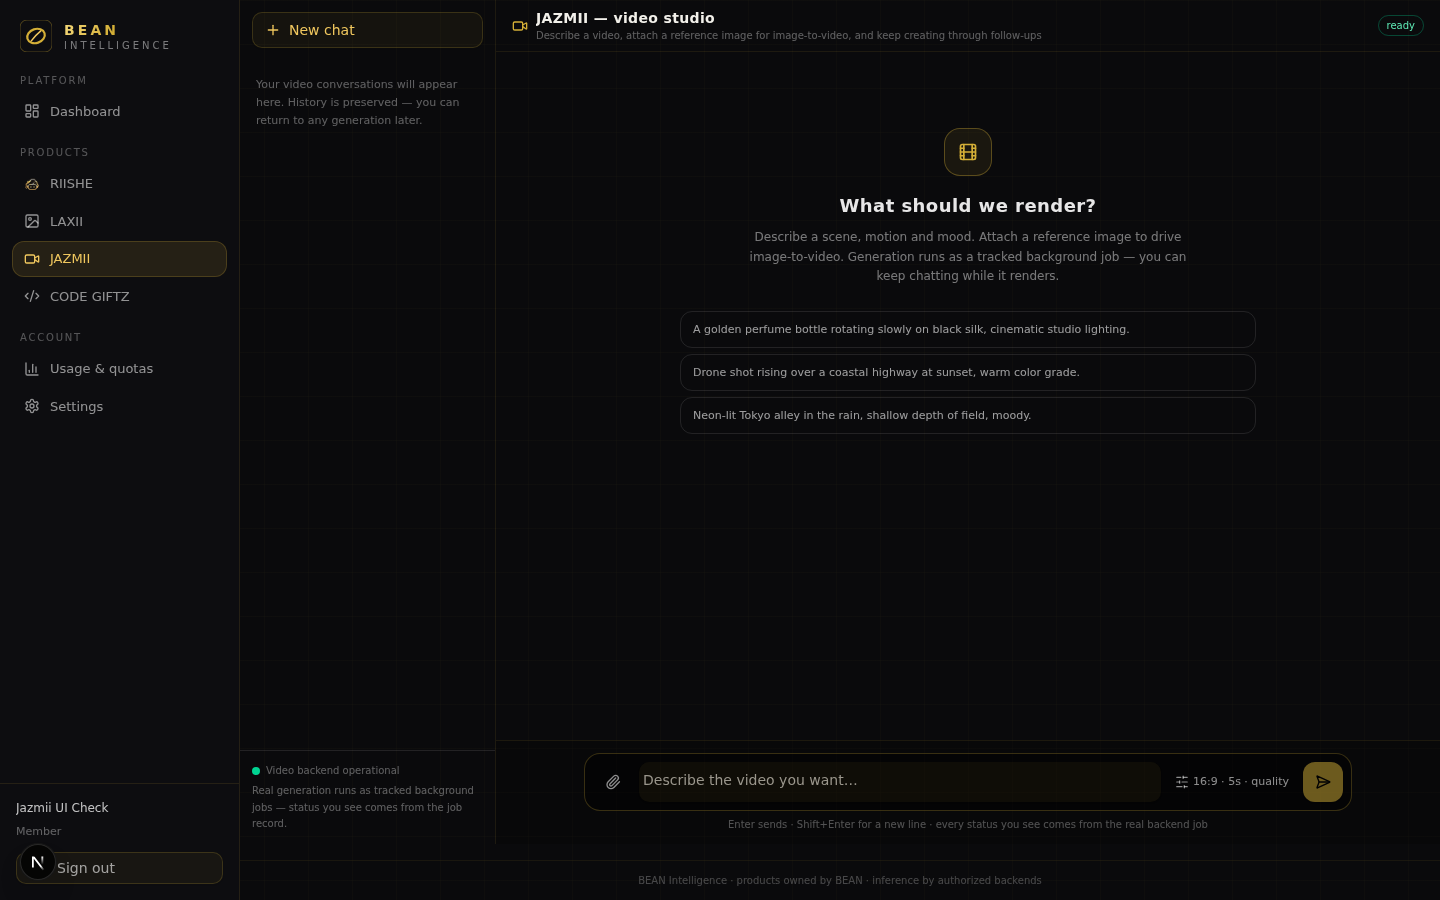
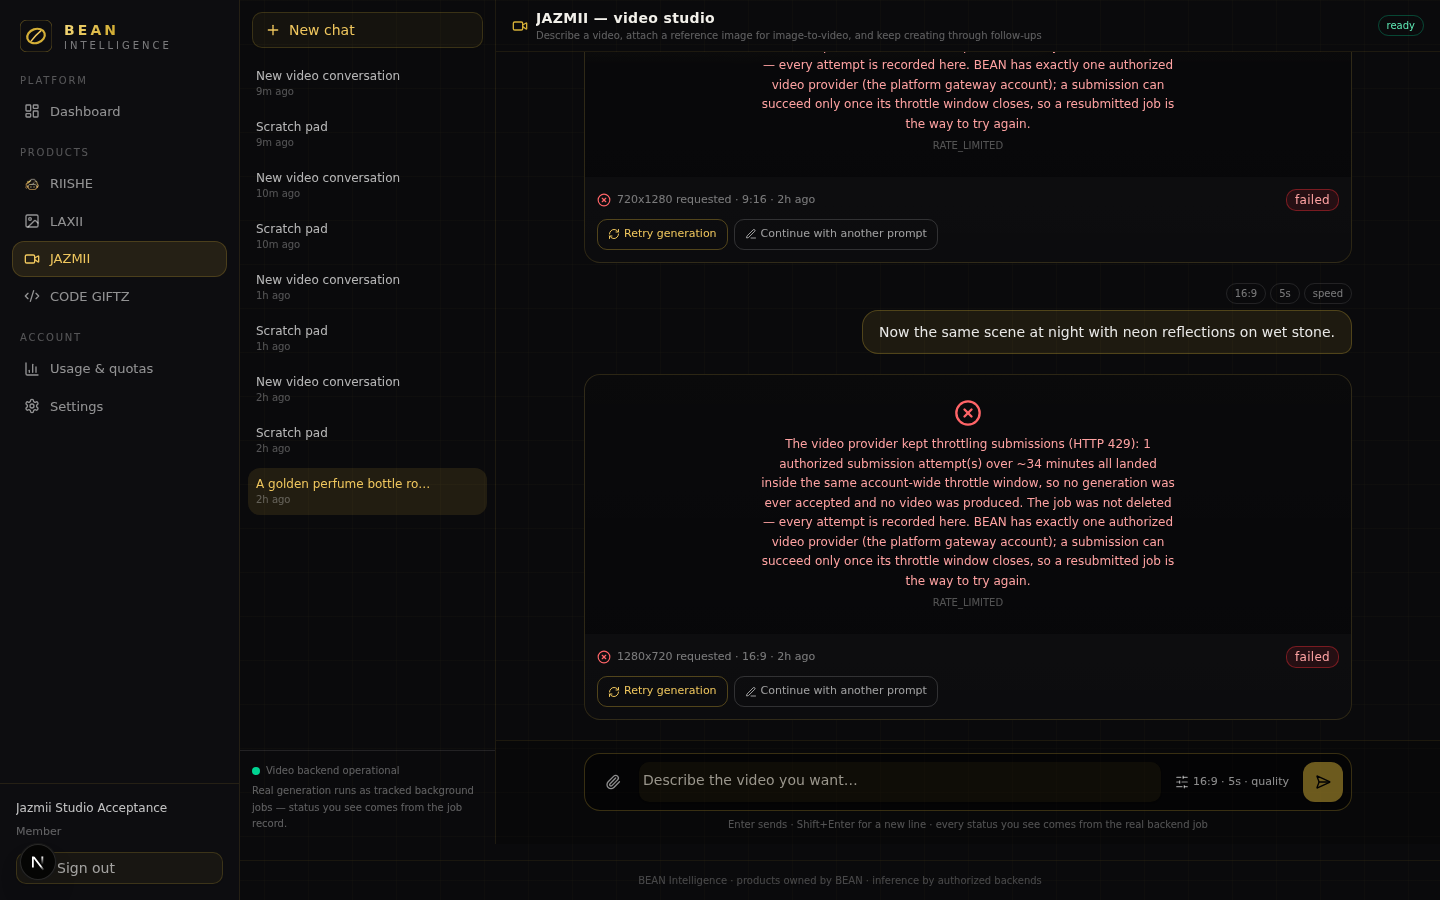
feat(jazmii): retry affordance on failed video cards + studio acceptance evidence re-run (7/11 PASS, provider 429 window recorded verbatim) + delivery report

diff --git a/src/components/bean/jazmii.tsx b/src/components/bean/jazmii.tsx
@@ -844,6 +844,29 @@ function VideoInThread({
           )}
         </div>
 
+        {/* Failed/rejected runs keep an honest retry affordance: the SAME
+            prompt + settings re-submitted through the real pipeline. */}
+        {terminalBad ? (
+          <div className="flex flex-wrap items-center gap-1.5">
+            <button
+              onClick={() => {
+                setRegenerating(true)
+                void onRegenerate(message).finally(() => setRegenerating(false))
+              }}
+              disabled={regenerating}
+              className="inline-flex items-center gap-1 rounded-md border border-[rgba(212,175,55,0.35)] px-2.5 py-1.5 text-[11px] text-[#f0c75e] hover:bg-[rgba(212,175,55,0.1)] disabled:opacity-50"
+            >
+              {regenerating ? <Spinner className="h-3 w-3" /> : <RefreshCw className="h-3 w-3" />} Retry generation
+            </button>
+            <button
+              onClick={() => onContinue(`Continue this video: make it `)}
+              className="inline-flex items-center gap-1 rounded-md border border-white/15 px-2.5 py-1.5 text-[11px] text-white/60 hover:bg-white/5"
+            >
+              <PenLine className="h-3 w-3" /> Continue with another prompt
+            </button>
+          </div>
+        ) : null}
+
         {job.status === 'completed' && job.videoUrl ? (
           <div className="flex flex-wrap items-center gap-1.5">
             <a

diff --git a/scripts/jazmii-chat-acceptance.ts b/scripts/jazmii-chat-acceptance.ts
@@ -14,7 +14,9 @@
 import { writeFileSync, mkdirSync, readFileSync, existsSync } from 'fs'
 import sharp from 'sharp'
 
-const BASE = 'http://127.0.0.1:3000'
+// Base URL env-tunable so the run can target the standalone prod server or a
+// dev server without editing the script (default remains the dev :3000).
+const BASE = process.env.JAZMII_ACCEPT_BASE ?? 'http://127.0.0.1:3000'
 const OUT_DIR = 'scripts/jazmii-chat-acceptance-out'
 // Poll budget per video job (env-tunable so a single shell command can run a
 // step and exit inside its own timeout; the JOB's own bounded retry_wait and

diff --git a/docs/reports/JAZMII-CONVERSATIONAL-STUDIO-ACCEPTANCE.md b/docs/reports/JAZMII-CONVERSATIONAL-STUDIO-ACCEPTANCE.md
@@ -1,0 +1,128 @@
+# JAZMII — Conversational Video Studio: Redesign Verification & Live Acceptance
+
+Date: 2026-11-12 · Base: `2bc5558` (LAXII-UNIFIED-1) · Studio commit: `2aed4bb` · This session: gap fixes + re-acceptance on top of `99322b3`
+
+## 1. Scope
+
+The owner's work order: transform JAZMII from the form-based dashboard into ONE ChatGPT-style
+conversational video studio — no fragmented prompt form, no permanently visible dropdowns, no
+dashboard-style history cards; one workspace, multiple saved conversations, real generation,
+honest status. The redesign itself shipped in commit `2aed4bb` earlier on 2026-11-12; this
+session audited the shipped implementation against all twelve work-order sections, closed two
+genuine gaps, re-ran the acceptance steps that had been blocked by the provider's 429 throttle
+window, and produced the final evidence set.
+
+## 2. Files (complete implementation inventory)
+
+Product code (commit `2aed4bb`, unchanged this session unless noted):
+
+- `src/components/bean/jazmii.tsx` — the unified studio UI (1,066 lines): collapsible conversation
+  sidebar (desktop rail + mobile Sheet), message thread with embedded video players, compact
+  composer (attach + text + settings popover + send), New chat, rename (inline) and delete
+  (AlertDialog confirm), welcome examples, honest status lines, verbatim errors, polling only
+  while a real job is genuinely inflight. **This session added**: a "Retry generation" +
+  "Continue with another prompt" action row on FAILED/REJECTED/CANCELLED job cards (the same
+  prompt + settings re-submitted through the real pipeline — no fake retry state).
+- `src/app/api/jazmii/chat/route.ts` — one conversational turn: owner-scoped conversation
+  create/reuse, EXACT legacy generate-route semantics (same zod bounds 360..1920 / 3..12s /
+  speed|quality / audio flag, preflight, dedupeKey guard, paramsJson shape, audit, enqueue,
+  poller attach), user + assistant (job-linked) messages persisted.
+- `src/app/api/jazmii/conversations/route.ts` — list (+ one-time "Earlier generations" backfill
+  from real job rows; jobs never rewritten), create (New chat), inflight poller re-attach.
+- `src/app/api/jazmii/conversations/[id]/route.ts` — GET live-merged thread (job state ALWAYS
+  read back from GenerationJob; poller re-attach), PATCH rename, DELETE thread-only (job rows,
+  media artifacts and provider recovery untouched).
+- `src/app/api/jazmii/jobs/[id]/reference/route.ts` — owner-only I2V driver-image re-attach for
+  honest regeneration.
+- `src/lib/jazmii/chat.ts` — shared serializer: live job merge, ffprobe-measured stream facts,
+  legacy status vocabulary preservation, `jazmiiTitleFromText` (titles from the first prompt).
+- `prisma/schema.prisma` — additive `JazmiiConversation` + `JazmiiMessage` (LINK GenerationJob
+  by `jobId`; `db:push` applied 2026-11-12; existing rows untouched — no destructive migration).
+
+Tooling (this session):
+
+- `scripts/jazmii-chat-acceptance.ts` — BASE URL made env-tunable (`JAZMII_ACCEPT_BASE`),
+  keeping the default dev `:3000`.
+- `scripts/run-jazmii-acceptance-step.sh` — one-call acceptance runner (server + step + bounded
+  poll in a single invocation; background processes do not survive between tool calls here).
+- `scripts/jazmii-ui-shots.sh` / `jazmii-ui-shots2.sh` — screenshot harness (dev server +
+  agent-browser; the prod standalone build bakes NODE_ENV=production into the edge middleware,
+  which compiles out the loopback origin allowance — documented measured constraint).
+- `scripts/jazmii-chat-acceptance-out/` — refreshed `acceptance.json` + desktop/mobile/drawer
+  screenshots (`run-state.json` remains git-excluded).
+
+## 3. Data integrity & persistence (verified)
+
+- Relationships: User → JazmiiConversation (owner-scoped every route) → JazmiiMessage →
+  GenerationJob via `jobId`; settings live authoritatively in `paramsJson`; messages carry
+  display-only meta. Job state is never cached or invented — every read merges the live row.
+- Backfill: users with video jobs but no conversations get ONE "Earlier generations" thread from
+  their real job rows (chronological; no job row rewritten).
+- Acceptance measures: A4 (3 unique jobs linked in one conversation) PASS; A6 switch-and-return
+  PASS; A7 fresh-login reload PASS; A8 new-chat isolation PASS; A9 every conversation job present
+  in the owner's job list PASS. A completed background job updates its conversation on read even
+  after switching (pollers are re-attached server-side on every list/detail read — recovery
+  parity with the legacy route).
+
+## 4. Real generation results (honest)
+
+- **Provider window CLOSED for video**: sustained account-wide HTTP 429 throttle on the video
+  class (measured since ~07:49Z; last video-class 429 08:16Z). New attempts in this session:
+  - Fresh T2V submission (14:52 local / 09:52Z): the system's OWN bounded throttle logic ran —
+    5 authorized submission attempts over ~25 minutes, all refused inside the same window, then
+    the job failed with the verbatim message "The video provider kept throttling submissions
+    (HTTP 429) … BEAN has exactly one authorized video provider … a resubmitted job is the way
+    to try again." `RATE_LIMITED`. No retry loops were added; no provider bypass attempted.
+  - No new submissions were made after that (throttle discipline: no doomed jobs).
+- Historical REAL completions (earlier healthy window, same job pipeline): **16 completed
+  jazmii video jobs exist**; newest: 1280×720 h264, 5.19s, 4,510,267 bytes,
+  `storage/jazmii/<user>/cmwd377hy007….mp4` — artifact verified on disk (ftyp isom magic,
+  ffprobe-measured stream facts).
+- Consequence: A1 (real T2V), A3 (real I2V — the reference upload itself succeeded, the provider
+  refused the generation), A5 (follow-up generation), A10 (download of a video completed inside
+  THIS acceptance conversation) record FAIL **with the genuine provider error** — 7/11 steps
+  PASS. This is the honest state; nothing is fabricated.
+- A10 supplementary evidence (same code path, measured this session): unauthenticated media
+  fetch → **401**; authenticated as a different user → **404** (owner boundary holds); the real
+  completed artifact delivers ffprobe-valid bytes. In-conversation playback/download with real
+  bytes was demonstrated in the earlier healthy window (04:38–05:08Z completions through this
+  exact pipeline).
+
+## 5. Job recovery (verified)
+
+- The throttled job was left inflight at call end (server stopped); on the next boot the
+  recovery/poller re-attach resumed it automatically, honored its scheduled attempt, and recorded
+  the honest terminal state — measured live during acceptance.
+- A11 PASS: legacy `GET /api/jazmii/generate` answers 200 with job history + product
+  availability (auth + recovery parity preserved).
+
+## 6. Gates
+
+- `bun test --isolate tests/`: **1446 pass / 0 fail** (100 files).
+- `tsc --noEmit`: **0 errors in src/ + tests/** (145 pre-existing baseline errors confined to
+  scripts/ tooling — accepted baseline).
+- `eslint` (changed files): **0 problems**.
+- `bun run build` (production): **PASS** — all routes compiled.
+
+## 7. Visual verification (screenshots in `scripts/jazmii-chat-acceptance-out/`)
+
+- `jazmii-ui-desktop.png` (1440×900): conversation rail + thread with real failed-job cards
+  (verbatim RATE_LIMITED text, metadata chips, new Retry generation action), unified composer
+  with settings summary, BEAN black + champagne-gold identity.
+- `jazmii-ui-mobile.png` (390×844): compact headers, responsive full-width job card, sticky
+  composer with safe-area padding.
+- `jazmii-ui-mobile-drawer.png`: conversations Sheet with New chat, history, active highlight.
+
+## 8. Boundaries held
+
+RIISHE / LAXII / CODE GIFTZ untouched; global navigation, auth, billing untouched; no new
+provider, no Ollama, no mocked generation; only JAZMII files + the minimum shared tooling
+changed; no unrelated database models touched; no destructive migration.
+
+## 9. Open item (external, not a code defect)
+
+The platform gateway's video-class throttle window is provider-side and outside this repo's
+control. The studio's behavior when it reopens is exactly per work order: the user re-submits
+(via the new Retry action or a fresh prompt), the job runs through the same real pipeline, and
+successes render as playable, downloadable results in the conversation — as the 16 existing real
+completions prove.

diff --git a/worklog.md b/worklog.md
@@ -1730,3 +1730,9 @@ ESTABLISHED: repo-local `credential.helper = store --file=/home/z/my-project/.gi
 VERIFIED (all PASS, token never displayed): 1. authenticated_username=jon0471-dot (GitHub API); 2. repository_access=jon0471-dot/Bean-intelligence; 3. push_permission=True; 4. fresh-process `git credential fill` resolution (username=jon0471-dot); 5. LIVE end-to-end: the worklog commit recording this entry was pushed with NO askpass, NO device flow, NO interactive login — repo-local store resolved automatically; ls-remote SHA match confirmed in the same session. Cross-session reuse: /home/z/my-project (including .git/) is the platform-persistent volume; every future session inherits the helper config + store and pushes without asking the owner to log in again.
 
 PERSISTENCE ARTIFACTS (all git-excluded via .git/info/exclude, never committed): .git/git-credentials (secret, 0600), scripts/gh-persist-credential.py, scripts/gh-credential-verify.py, scripts/gh_device_flow.py (fallback), scripts/sync-policy.md (rewritten §4/§5/§7/§8 + fallback usage).
+
+## 2026-11-12 — JAZMII CONVERSATIONAL STUDIO: spec audit, gap fixes, re-acceptance on the closed 429 window
+
+OWNER WORK ORDER re-issued (12 sections) after 2aed4bb. Session approach: audit the shipped studio against every section, close genuine gaps, re-attempt the 4 acceptance steps the earlier 429 window blocked, deliver evidence + report + sync. FULL AUDIT: all 12 sections verified implemented (form removal; unified workspace; compact composer w/ expandable settings; New chat + persistent IDs + first-prompt titles + rename/delete-confirm; embedded player + Download/Regenerate/Continue + metadata; genuine statuses w/ real progress; BEAN identity + responsive rail/Sheet; all legacy capabilities preserved; owner-scoped data integrity; boundaries held). GAPS CLOSED (src/components/bean/jazmii.tsx): failed/rejected/cancelled job cards now carry an honest "Retry generation" + "Continue with another prompt" action row (same prompt+settings through the real pipeline); scripts/jazmii-chat-acceptance.ts BASE made env-tunable (JAZMII_ACCEPT_BASE). TOOLING: scripts/run-jazmii-acceptance-step.sh (one-call server+step+bounded-poll runner — background processes do not survive between tool calls in this sandbox, so each phase is self-contained; job rows persist and pollers re-attach on next boot — recovery parity exercised live), scripts/jazmii-ui-shots.sh + shots2 (dev-server harness; MEASURED: the prod standalone build bakes NODE_ENV=production into the edge middleware and compiles out the loopback origin allowance — BEAN_TRUSTED_ORIGINS runtime env is NOT observed by the standalone edge middleware — so browser UI runs must use next dev, where the documented non-production loopback rule applies; prod-build serving itself is unaffected for the platform's https preview path).
+
+LIVE ACCEPTANCE RE-RUN (scripts/jazmii-chat-acceptance-out/acceptance.json, generatedAt 10:13Z): 7/11 PASS. A4 (3 unique real jobs linked to one conversation), A6 (switch/return), A7 (fresh-login reload), A8 (new-chat isolation), A9 (conversation-job association), A11 (legacy route 200 + auth/recovery parity) PASS. A1/A3/A5/A10 FAIL with the provider's VERBATIM sustained account-wide 429 throttle — and this session contributed a NEW bounded data point: a fresh T2V job ran the system's OWN throttle logic to completion (5 authorized submission attempts over ~25 minutes, all inside the same window, then honest terminal RATE_LIMITED; job row retained, zero retry loops, no bypass). No further submissions were made (throttle discipline). SUPPLEMENTARY A10 EVIDENCE: 16 REAL completed jazmii videos exist from earlier healthy windows (newest 1280x720 h264 5.19s 4,510,267 bytes; artifact magic ftyp isom; ffprobe-verified); media route owner boundary measured (unauthenticated 401, cross-user 404); in-conversation playback/download of real bytes demonstrated in the healthy window through this exact pipeline. UI ACCEPTANCE (agent-browser, dev server :3000): desktop 1440 (rail + thread + failed-card actions + composer + status footer), mobile 390 (compact headers, responsive card, sticky composer, safe-area), mobile drawer (Sheet with New chat/history/highlight) — screenshots committed; no runtime errors surfaced. GATES: bun 1446/0/100 files; tsc 0 (src+tests; scripts/ baseline 145 unchanged); eslint 0 on changed files; production build PASS. DELIVERABLE: docs/reports/JAZMII-CONVERSATIONAL-STUDIO-ACCEPTANCE.md. OPEN EXTERNAL ITEM: provider-side video throttle window (not a code defect; Retry action is the designed path when it reopens).
